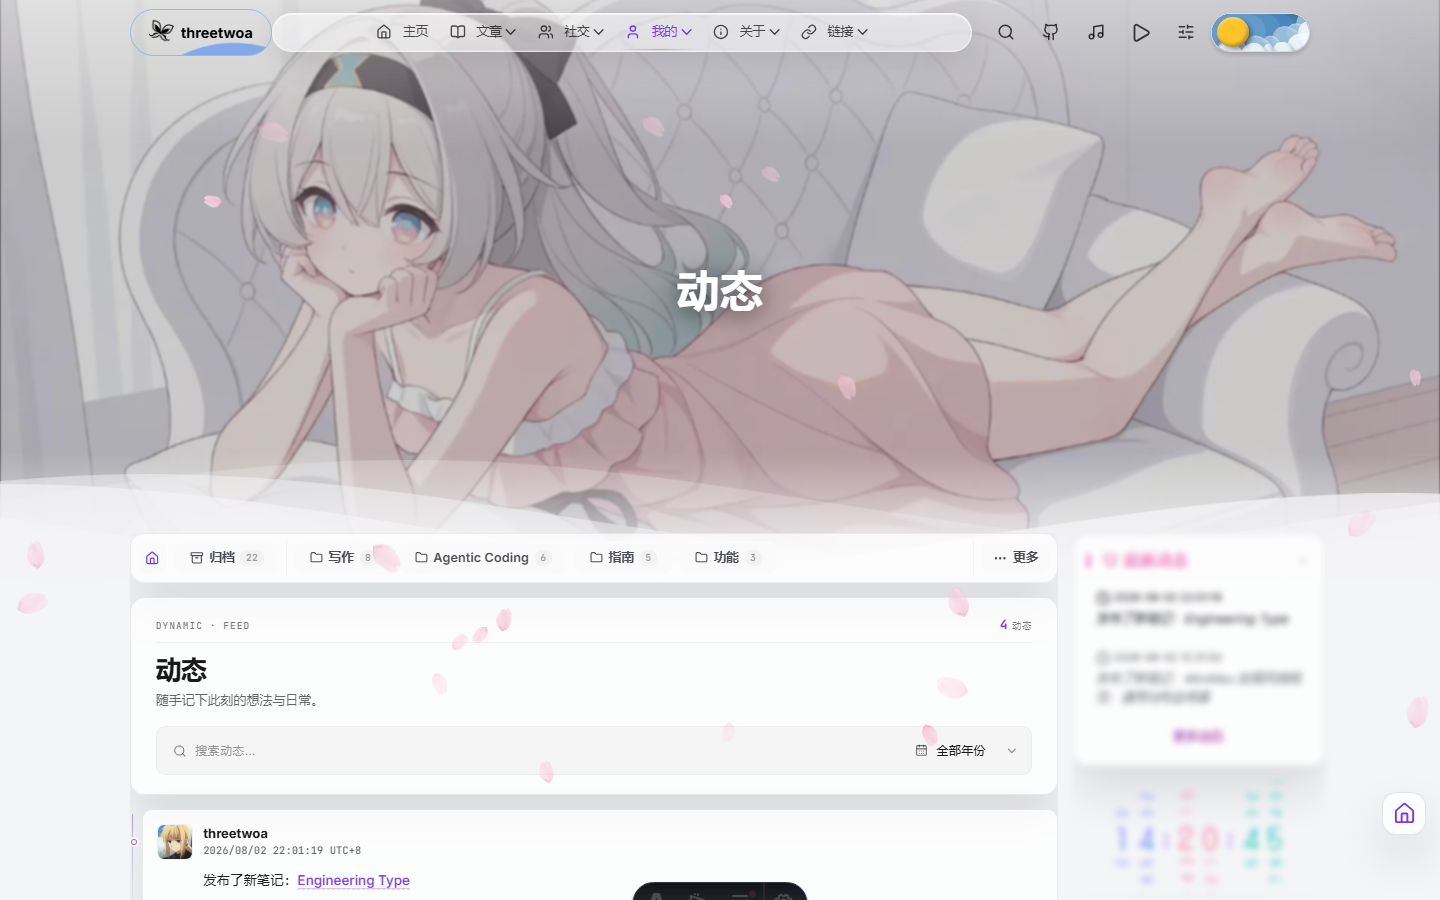
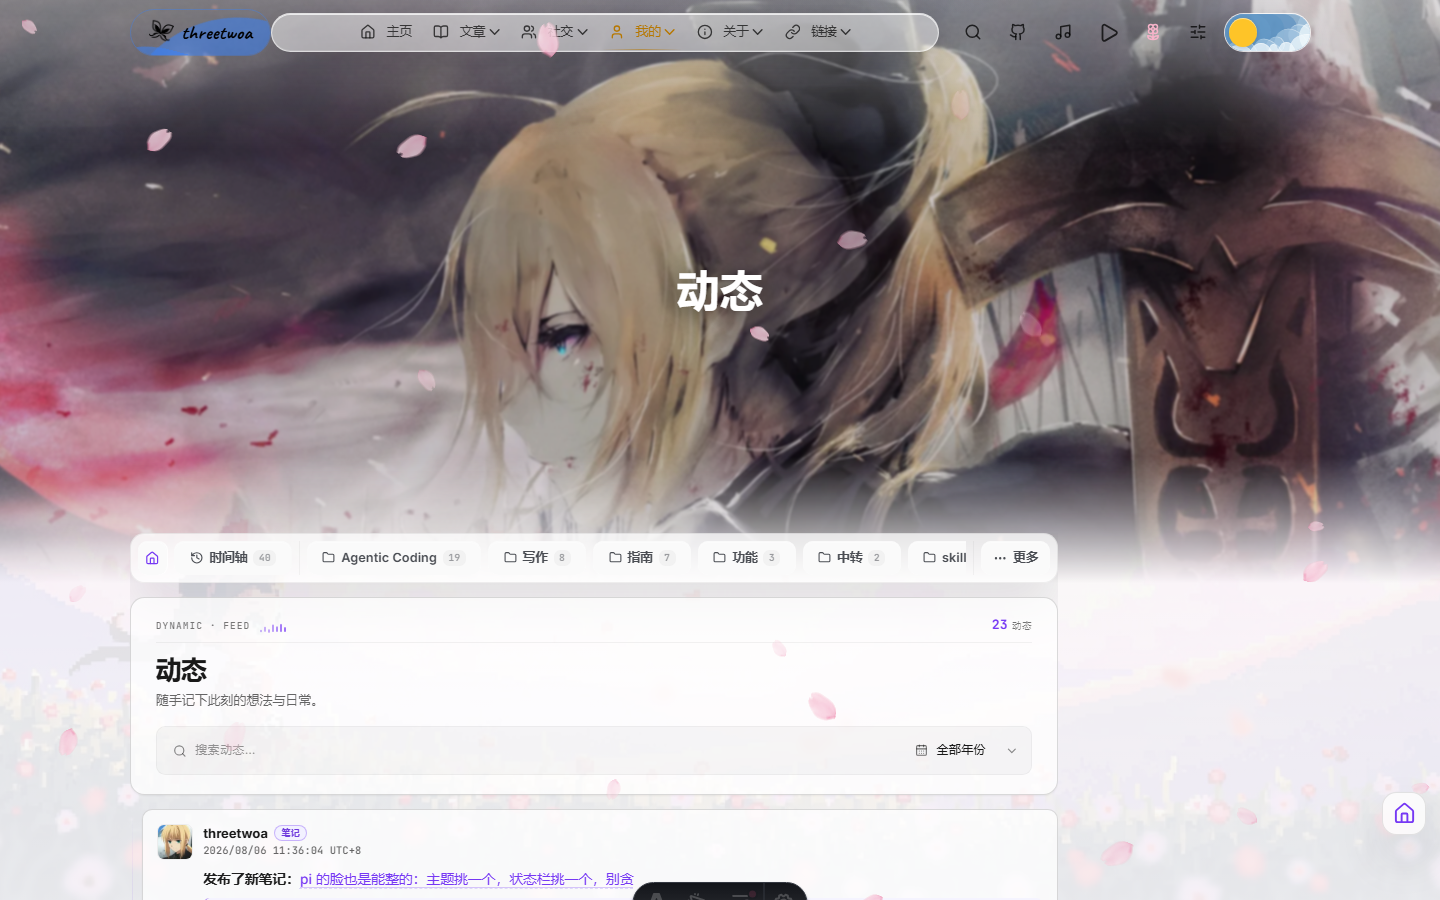
docs(readme): Showcase 重截并对齐 timeline 路由
Playwright 清旧图重截；archive 改为 timeline 资产与文案；截图脚本改绑 127.0.0.1。

diff --git a/scripts/capture-readme-showcase.py b/scripts/capture-readme-showcase.py
@@ -1,6 +1,6 @@
-"""Capture showcase screenshots from local Firefly blog (Playwright).
+r"""Capture showcase screenshots from local Firefly blog (Playwright).
 
-前置：`pnpm dev` 已在 http://localhost:4321 跑着（本机多为 [::1]）。
+前置：`pnpm dev` 已在 http://127.0.0.1:4321 跑着。
 用法：完整路径调用 python，例如：
 `& "$env:LOCALAPPDATA\Programs\Python\Python313\python.exe" scripts\capture-readme-showcase.py`
 """
@@ -10,8 +10,8 @@ from pathlib import Path
 
 from playwright.sync_api import sync_playwright
 
-# Astro 在本机常只监听 [::1]；127.0.0.1 会连不上
-BASE = "http://localhost:4321"
+# 优先 127.0.0.1（pnpm dev --host 127.0.0.1）；本机偶发只绑 [::1] 时再改 BASE
+BASE = "http://127.0.0.1:4321"
 OUT = Path(__file__).resolve().parent.parent / "assets" / "images" / "readme"
 OUT.mkdir(parents=True, exist_ok=True)
 
@@ -26,7 +26,7 @@ SHOTS: list[tuple[str, str, dict[str, str] | None, str | None]] = [
         "#post-container",
     ),
     ("showcase-dynamic.png", "/dynamic/", None, None),
-    ("showcase-archive.png", "/archive/", None, None),
+    ("showcase-timeline.png", "/timeline/", None, None),
     ("showcase-about.png", "/about/", None, "main, #post-container, .custom-md"),
     ("showcase-gallery.png", "/gallery/", None, None),
 ]
@@ -34,7 +34,9 @@ SHOTS: list[tuple[str, str, dict[str, str] | None, str | None]] = [
 HIDE_CSS = """
 .sprite-pet-root,
 #pio-container,
-.pio-container {
+.pio-container,
+#gift-surprise-toast,
+.gift-surprise-toast {
   display: none !important;
   visibility: hidden !important;
 }

diff --git a/README.md b/README.md
@@ -1,18 +1,18 @@
 <h1 align="center">threetwoa's blog</h1>
 
 <p align="center">
-  <strong><em>an Astro blog with a system behind it</em></strong> 🚀
+  <strong><em>an Astro blog with a system behind it</em></strong>
 </p>
 
 <p align="center">
-  <img src="https://img.shields.io/badge/Node.js-%3E%3D22-339933?style=flat-square&logo=node.js&logoColor=white" alt="Node.js">
-  <img src="https://img.shields.io/badge/pnpm-%3E%3D9-F69220?style=flat-square&logo=pnpm&logoColor=white" alt="pnpm">
-  <img src="https://img.shields.io/badge/Astro-7-FF5D01?style=flat-square&logo=astro&logoColor=white" alt="Astro">
-  <img src="https://img.shields.io/badge/Svelte-5-FF3E00?style=flat-square&logo=svelte&logoColor=white" alt="Svelte"><br>
-  <img src="https://img.shields.io/badge/TypeScript-6-3178C6?style=flat-square&logo=typescript&logoColor=white" alt="TypeScript">
-  <img src="https://img.shields.io/badge/Tailwind-4-06B6D4?style=flat-square&logo=tailwindcss&logoColor=white" alt="Tailwind CSS">
-  <img src="https://img.shields.io/badge/Deploy-Vercel-000000?style=flat-square&logo=vercel&logoColor=white" alt="Vercel">
-  <img src="https://img.shields.io/github/license/Aafff623/fork-Firefly?style=flat-square" alt="License">
+  <img src="https://img.shields.io/badge/Node.js-%3E%3D22-339933?style=for-the-badge&logo=node.js&logoColor=white" alt="Node.js">
+  <img src="https://img.shields.io/badge/pnpm-%3E%3D9-F69220?style=for-the-badge&logo=pnpm&logoColor=white" alt="pnpm">
+  <img src="https://img.shields.io/badge/Astro-7-FF5D01?style=for-the-badge&logo=astro&logoColor=white" alt="Astro">
+  <img src="https://img.shields.io/badge/Svelte-5-FF3E00?style=for-the-badge&logo=svelte&logoColor=white" alt="Svelte"><br>
+  <img src="https://img.shields.io/badge/TypeScript-6-3178C6?style=for-the-badge&logo=typescript&logoColor=white" alt="TypeScript">
+  <img src="https://img.shields.io/badge/Tailwind-4-06B6D4?style=for-the-badge&logo=tailwindcss&logoColor=white" alt="Tailwind CSS">
+  <img src="https://img.shields.io/badge/Deploy-Vercel-000000?style=for-the-badge&logo=vercel&logoColor=white" alt="Vercel">
+  <img src="https://img.shields.io/github/license/Aafff623/fork-Firefly?style=for-the-badge" alt="License">
 </p>
 
 <p align="center">
@@ -26,9 +26,12 @@
 
 <p align="center">
   <a href="#project">Project</a>
+  · <a href="#features">Features</a>
+  · <a href="#integrations">Integrations</a>
   · <a href="#showcase">Showcase</a>
   · <a href="#quick-start">Quick start</a>
   · <a href="#architecture">Architecture</a>
+  · <a href="#tech-stack">Tech stack</a>
 </p>
 
 <p align="center">
@@ -44,11 +47,9 @@
 
 ## Project
 
-An Astro blog built around content, configuration, and visual iteration.
+配置驱动的 Astro 个人博客：内容写在 Markdown / MDX，站点行为落在 `src/config`，页面由 Astro + Svelte islands + 少量客户端脚本组成。
 
-这是一个基于 Firefly 二次开发的 Astro 个人博客：内容写在 Markdown / MDX，站点行为由 `src/config` 控制，页面与交互由 Astro、Svelte islands 和少量客户端脚本共同完成。
-
-项目关注的不只是主题展示，也包括内容发布、页面组合、搜索、评论和部署之间的清晰边界。当前工作重点是继续收敛信息架构、页面节奏和视觉一致性。
+边界很清楚——**静态优先**、**配置优先于改布局内核**、发文走双路径（Obsidian vault → `ob2blog`，或 Knowledge → `knowledge-output`），收尾都接 `site-cascade`。本仓**没有**独立 Preview 壳；产品面用下方 [Showcase](#showcase) 真机截图。
 
 当前站点：<https://fork-firefly.vercel.app>
 
@@ -58,34 +59,34 @@ An Astro blog built around content, configuration, and visual iteration.
 | Rendering model | Static-first · SSG · CDN-friendly |
 | Content model | Markdown / MDX · Content Collections |
 | Interaction model | Svelte islands · Swup · progressive enhancement |
-| Visual phase | 页面信息架构与视觉一致性持续收敛 |
+| Integrations | Waline · Iconify · SpritePet · local music（见下） |
 | Deployment | Vercel 默认 · Cloudflare adapter 可选 |
 
-<details id="key-docs-and-assets">
-<summary>Key docs and assets</summary>
+### Key docs and assets
+
+<a id="key-docs-and-assets"></a>
 
 | 入口 | 用途 |
 | --- | --- |
 | [CONTEXT.md](CONTEXT.md) | 产品定位、技术事实、术语和仓库边界 |
 | [AGENTS.md](AGENTS.md) | 任务流、修改边界、验证与交付规则 |
-| [docs/adr/](docs/adr/) | 需要长期保留的架构决策 |
+| [docs/adr/](docs/adr/) | 需要长期保留的架构决策（含 Waline / 本地音乐） |
 | [docs/outputs/commit-history/](docs/outputs/commit-history/) | 历史改动、视觉演进和工作摘要 |
 | [assets/images/readme/](assets/images/readme/) | Banner、架构图、技术栈图与 Showcase 资产 |
-| [capture-readme-showcase.py](scripts/capture-readme-showcase.py) | 使用真实页面重新生成 README Showcase |
+| [capture-readme-showcase.py](scripts/capture-readme-showcase.py) | 本地 Playwright 重截 README Showcase |
 
 推荐阅读顺序：`README.md` → `CONTEXT.md` → `AGENTS.md` → `docs/adr/` → `src/config/` / `src/content/`。
-</details>
 
 ## Features
 
-核心能力按“内容 → 阅读 → 个性化 → 集成”组织；每一行同时给出能力范围和主要代码入口。
+核心能力按「内容 → 阅读 → 个性化 → 集成」组织；每一行同时给出能力范围和主要代码入口。
 
 | Area | Capability | Included | Main entry |
 | --- | --- | --- | --- |
 | Publishing | Content model | `posts`、`dynamic`、`spec` 三类 Content Collections | `src/content/` · `src/content.config.ts` |
 | Publishing | Authoring | Markdown / MDX、frontmatter、草稿、置顶、密码文章、文章关联 | `src/content/` · `src/plugins/` |
 | Publishing | Build output | RSS、Sitemap、OpenGraph、阅读时间、字数、Pagefind 索引 | `astro.config.mjs` · `scripts/` |
-| Publishing | Rich content | KaTeX、Mermaid、PlantUML、Wiki Link、代码组、自定义 directive | `src/plugins/` |
+| Publishing | Rich content | KaTeX、Mermaid（merman 静态 SVG）、PlantUML、Wiki Link、代码组、directive | `src/plugins/` |
 | Reading | List system | list、grid、waterfall；Featured、标签和分类入口 | `src/components/layout/` |
 | Reading | Article navigation | Index-First TOC、相关文章、文章导航、标签聚焦 | `src/components/layout/PostPage.astro` |
 | Reading | Display controls | 亮暗色、系统主题、色相、壁纸模式、卡片表现 | `src/config/displaySettingsConfig.ts` |
@@ -93,56 +94,85 @@ An Astro blog built around content, configuration, and visual iteration.
 | Personal surfaces | Dynamic | 碎碎念时间线，可接本地内容或 Memos | `src/pages/dynamic/index.astro` |
 | Personal surfaces | Gallery | 作品集手风琴与 Three.js 无限画布双模式 | `src/pages/gallery/` |
 | Personal surfaces | Extended pages | About、Friends、Guestbook、Anime 等独立页面 | `src/pages/` · `src/content/spec/` |
-| Personal surfaces | Widgets | 热力图、日历、贪吃蛇、热笺、标签墙、统计、桌宠 | `src/components/widget/` |
-| Integration | Comments | Waline、表情、Giphy、访客统计 | `src/config/commentConfig.ts` |
-| Integration | Media services | 评论图片通过服务端代理上传腾讯云 COS | `.env.example` · `src/pages/api/` |
+| Personal surfaces | Widgets | 热力图、日历、公告礼盒、园径便签、标签墙、统计、桌宠 | `src/components/widget/` |
+| Integration | Comments | Waline（ADR-0001）：表情预设、Giphy、访客统计；`stickerSuggest` 已集成默认关 | `src/config/commentConfig.ts` |
+| Integration | Icons | `astro-icon` + Iconify（lucide 主，兼 fa7 / simple-icons / mdi / mingcute / material-symbols） | `astro.config.mjs` |
+| Integration | Pets & music | SpritePet 默认开；Live2D / Spine 备选互斥；音乐默认 local（ADR-0002） | `petConfig.ts` · `musicConfig.ts` · `pioConfig.ts` |
+| Integration | Media services | 评论大图 COS 代理上传；Fancybox 灯箱 | `.env.example` · `src/pages/api/` |
 | Integration | Delivery | Vercel 默认部署，Cloudflare adapter 可选 | `vercel.json` · `wrangler.jsonc` |
 | Integration | Localization | `zh_CN`、`zh_TW`、`en`、`ja`、`ru`、`ko` | `src/config/siteConfig.ts` |
 
+## Integrations
+
+把「装进站点、但容易被 README 漏掉」的集成单独摊开。现行 vs 备选以配置为准，不硬编码进布局。
+
+| 域 | 现行（默认） | 备选 / 旁路 | 配置入口 |
+| --- | --- | --- | --- |
+| 评论 | **Waline**（自建 `serverURL` + Neon） | Twikoo / Giscus / Artalk / Disqus 槽位保留 | [`commentConfig.ts`](src/config/commentConfig.ts) · [ADR-0001](docs/adr/0001-waline-over-giscus.md) |
+| 表情包 | `@waline/emojis@1.4.0`：qq / weibo / bilibili / bmoji | CDN 可换包 | `commentConfig.waline.emoji` |
+| GIF | Waline 客户端默认 **Giphy** search | 高流量时可换自有 API Key | `Waline.astro` |
+| 梗图建议 | `stickerSuggest` **已接线、默认 `enabled: false`** | 可开词表；可选 DeepSeek agent | `/api/comment-sticker-suggest` |
+| 评论大图 | 腾讯云 **COS** 服务端代理（绕过 128KB Base64） | 未配密钥则大图不可用 | `/api/comment-image` · `.env.example` |
+| 图标 | **Iconify** via `astro-icon`；UI 以 **Lucide** 为主 | fa7 / simple-icons / mdi / mingcute / material-symbols | `astro.config.mjs` → `icon({ include })` |
+| 桌宠 | **SpritePet** 默认开（双 DeepSeek 皮） | Live2D / Spine；三者互斥 | [`petConfig.ts`](src/config/petConfig.ts) · `pioConfig.ts` |
+| 音乐 | **local** 自托管曲库 | Meting API 备源 | [`musicConfig.ts`](src/config/musicConfig.ts) · [ADR-0002](docs/adr/0002-local-music-default.md) |
+| 灯箱 / 图示 | Fancybox；Mermaid 经 **merman** 构建期出 SVG | PlantUML · panzoom | `@fancyapps/ui` · `@mermanjs/web` |
+| 动态源 | 本地 `content/dynamic` | 可选 Memos API | `dynamicConfig` · `DynamicSidebar` |
+| 分析 | 槽位就绪（GA / Clarity / Umami / 51la） | ID 多为空，按需填 | `analyticsConfig.ts` |
+
+决策记录：评论走 Waline 而不是 Giscus，是为了表情选项卡与 GIF 插入闭环（见 ADR-0001）。音乐默认 local，是为了不依赖公共 Meting 可用性（见 ADR-0002）。
+
 ## Showcase
 
-推荐浏览路径：首页 → 文章 → Dynamic → Archive / About / Gallery。
+推荐浏览路径：首页 → 文章 → Dynamic → Timeline / About / Gallery。
 
-UI 大改后可以使用 `scripts/capture-readme-showcase.py` 重新截取展示图。脚本需要先启动本地开发服务器。
+截图来自本地 `pnpm dev`（`http://127.0.0.1:4321`），由 Playwright 脚本重截；样式迭代后请再跑一遍覆盖旧图。脚本会隐藏桌宠与礼盒 toast，避免挡画面。
+
+```bash
+# 先 pnpm dev，再：
+python scripts/capture-readme-showcase.py
+```
+
+本仓无独立 Preview 站；下表即产品主链路真机面。
 
 <table>
   <tr>
     <td width="33%" valign="top" align="center">
       <a href="assets/images/readme/showcase-home.png"><img alt="Home" src="assets/images/readme/showcase-home.png" width="100%"></a>
       <br><strong>Home</strong><br>
-      <sub>文章卡片 · 双侧栏 · 壁纸横幅 · 分类入口</sub><br>
+      <sub>文章卡片 · 双侧栏 · 壁纸横幅 · 分类条</sub><br>
       <a href="https://fork-firefly.vercel.app/">Open</a>
     </td>
     <td width="33%" valign="top" align="center">
       <a href="assets/images/readme/showcase-post.png"><img alt="Post" src="assets/images/readme/showcase-post.png" width="100%"></a>
       <br><strong>Post</strong><br>
-      <sub>Index-First TOC · 封面 · Markdown 扩展</sub><br>
+      <sub>Index-First TOC · 封面 · Markdown 扩展 · 公告礼盒</sub><br>
       <a href="https://fork-firefly.vercel.app/posts/claude-code-windows-beautify/">Open</a>
     </td>
     <td width="33%" valign="top" align="center">
       <a href="assets/images/readme/showcase-dynamic.png"><img alt="Dynamic" src="assets/images/readme/showcase-dynamic.png" width="100%"></a>
       <br><strong>Dynamic</strong><br>
-      <sub>碎碎念时间线 · Memos 适配 · 幕布聚焦</sub><br>
+      <sub>碎碎念时间线 · 搜索筛选 · Memos 可接</sub><br>
       <a href="https://fork-firefly.vercel.app/dynamic/">Open</a>
     </td>
   </tr>
   <tr>
     <td width="33%" valign="top" align="center">
-      <a href="assets/images/readme/showcase-archive.png"><img alt="Archive" src="assets/images/readme/showcase-archive.png" width="100%"></a>
-      <br><strong>Archive</strong><br>
-      <sub>按年折叠 · 克制行列表 · 内容索引</sub><br>
-      <a href="https://fork-firefly.vercel.app/archive/">Open</a>
+      <a href="assets/images/readme/showcase-timeline.png"><img alt="Timeline" src="assets/images/readme/showcase-timeline.png" width="100%"></a>
+      <br><strong>Timeline</strong><br>
+      <sub>按年折叠 · 行列表 · 内容索引</sub><br>
+      <a href="https://fork-firefly.vercel.app/timeline/">Open</a>
     </td>
     <td width="33%" valign="top" align="center">
       <a href="assets/images/readme/showcase-about.png"><img alt="About" src="assets/images/readme/showcase-about.png" width="100%"></a>
       <br><strong>About</strong><br>
-      <sub>Quote-Led · Now / Practice / Reach · 视觉组件</sub><br>
+      <sub>Quote-Led · Now / 统计 / 日历侧栏</sub><br>
       <a href="https://fork-firefly.vercel.app/about/">Open</a>
     </td>
     <td width="33%" valign="top" align="center">
       <a href="assets/images/readme/showcase-gallery.png"><img alt="Gallery" src="assets/images/readme/showcase-gallery.png" width="100%"></a>
       <br><strong>Gallery</strong><br>
-      <sub>作品集手风琴 · 无限画布 · 视觉内容</sub><br>
+      <sub>作品集手风琴 · 无限画布双模式</sub><br>
       <a href="https://fork-firefly.vercel.app/gallery/">Open</a>
     </td>
   </tr>
@@ -169,7 +199,7 @@ pnpm dev
 
 打开 <http://localhost:4321> 查看站点。
 
-首次配置请阅读 [Configuration](#configuration)，先完成站点身份和内容设置，再开启评论、Memos 或 COS 等可选服务。
+首次配置请阅读 [Configuration](#configuration)：先完成站点身份和内容，再开评论、COS、Memos 等可选服务。
 </details>
 
 <details>
@@ -207,6 +237,13 @@ src/content/
 ```
 
 文章 frontmatter 会经过 [src/content.config.ts](src/content.config.ts) 校验。生产构建默认隐藏 `draft: true` 的文章，本地开发可以继续预览草稿。
+
+发文双路径（细则见 `AGENTS.md` / `docs/agents/workflow.md`）：
+
+| 路径 | 源 | 技能链 |
+| --- | --- | --- |
+| 甲 | Obsidian vault | `ob2blog` → `site-cascade` |
+| 乙 | 会话 / Knowledge 素材 | `knowledge-extract` → `knowledge-output` → `site-cascade` |
 
 日常写作走内容文件，日常换皮走 `src/config`。不要为了改站点名称、侧栏顺序或壁纸参数去修改布局内核。
 
@@ -266,13 +303,12 @@ src/content/
 
    文章 frontmatter 会由 [src/content.config.ts](src/content.config.ts) 校验。生产构建默认隐藏 `draft: true` 的文章。
 
-6. **启用可选服务**
+6. **启用 / 核对集成服务**
 
-   只有需要评论图片上传或外部数据源时才配置环境变量：
-
-   - 复制 [.env.example](.env.example) 为 `.env`
-   - 在 `src/config/commentConfig.ts` 中配置 Waline
-   - 在对应配置中开启 Memos、COS、音乐、Live2D 或 Spine
+   - 复制 [.env.example](.env.example) 为 `.env`（仅在需要 COS 等密钥时）
+   - 评论：`commentConfig.ts` 现行 Waline；表情与 Giphy 已接
+   - 桌宠：`petConfig.ts` 默认开；与 Live2D / Spine 互斥
+   - 音乐：`musicConfig.ts` 默认 `local`
    - 不要提交 `.env`、API key 或评论服务 token
 
 7. **本地验证**
@@ -325,7 +361,7 @@ src/content/
 
 ## Architecture
 
-项目把“经常修改的内容”与“尽量稳定的内核”分开：运营走配置和 Markdown，构建链路负责增强，浏览器只接收必要的交互。
+项目把「经常修改的内容」与「尽量稳定的内核」分开：运营走配置和 Markdown，构建链路负责增强，浏览器只接收必要的交互。
 
 <p align="center">
   <img src="assets/images/readme/architecture.svg" alt="threetwoa's blog architecture diagram" width="100%">
@@ -335,8 +371,8 @@ src/content/
 | --- | --- | --- |
 | Authoring | 配置、文案、Markdown / MDX | `src/config` · `src/content` |
 | Composition | 页面、布局、组件和 Markdown plugins | `src/pages` · `src/layouts` · `src/components` · `src/plugins` |
-| Build | 静态生成、图片占位、字体和搜索索引 | Astro SSG · LQIP · font subset · Pagefind |
-| Runtime | CDN 交付和轻量交互 | `dist` · Vercel · Swup · Svelte islands |
+| Build | 静态生成、图片占位、字体、Mermaid SVG、搜索索引 | Astro SSG · LQIP · font subset · merman · Pagefind |
+| Runtime | CDN 交付与轻量交互 | `dist` · Vercel · Swup · Svelte islands · Waline · SpritePet · Iconify |
 
 ### Design principles
 
@@ -349,11 +385,21 @@ src/content/
 
 ## Tech stack
 
-技术栈按“页面框架、内容处理、构建增强、交付环境”分组，方便定位依赖和评估改动影响。
+技术栈按「页面框架、内容处理、构建增强、交付环境、站点集成」分组。图负责气质；下表负责事实。
 
 <p align="center">
   <img src="assets/images/readme/tech-stack.svg" alt="threetwoa's blog technology stack" width="100%">
 </p>
+
+| Lane | Stack | Role |
+| --- | --- | --- |
+| Runtime core | Astro 7.1 · Svelte 5 · TypeScript 6 · Tailwind CSS 4 | 页面、岛屿、类型与样式 |
+| Publishing | MD / MDX · Content Collections · remark / rehype · Expressive Code | 写作契约与正文增强 |
+| Interaction | Swup · Iconify (`astro-icon`) · Fancybox · Three.js（Gallery） | 过渡、图标、灯箱、画廊 |
+| Build enrichment | Sharp · LQIP · font subset · **merman** · Pagefind · Satori（OG） | 构建期把贵活做完 |
+| Delivery | `dist/` · Vercel · Cloudflare adapter（可选） | 静态出站 |
+| Site integrations | Waline + emoji/Giphy · SpritePet · local music · COS · Memos（可选） | 配置门控；前几项现行默认开 |
+| Quality | Biome · `astro check` · tsc · pnpm only-allow | 格式、类型与包管理纪律 |
 
 ## Deploy
 

diff --git a/docs/outputs/prd/readme-diagrams/readme-diagram-brief.md b/docs/outputs/prd/readme-diagrams/readme-diagram-brief.md
@@ -1,11 +1,12 @@
 # README 配图 Brief（契约层）
 
 > **契约已落地归档（2026-08-04）**：下列文件名与状态已与 `assets/images/readme/` 实盘对齐。勿再按旧名 `banner.png` / `architecture.png` 找图。  
-> 现行色锚见 `CONTEXT.md`（Kraken 主紫 hue 290）；下文青绿表仅保留作 Phase B 生图史档。
+> 现行色锚见 `CONTEXT.md`（Kraken 主紫 hue 290）；下文青绿表仅保留作 Phase B 生图史档。  
+> **状态刷新：2026-08-05** — README Polish 迭代：Integrations 小节落地；`tech-stack.svg` 节点对齐现行；Showcase 六张自 `localhost:4321` 重截。
 
 - 项目：threetwoa's blog / fork-Firefly（standalone；仓名带 `fork-` 历史前缀）
-- 日期：2026-07-30（契约起草）· 状态刷新：2026-08-04
-- Phase：B · README Polish — **主资产已挂 README**
+- 日期：2026-07-30（契约起草）· 状态刷新：2026-08-05
+- Phase：B · README Polish — **主资产已挂 README**；本轮为集成盘点 + 行文 + 重截
 - 范文偏向：产品演示向 + standalone 声明 + 边界/徽章密度
 
 ## 风格参照（必读）
@@ -27,14 +28,26 @@
 
 | 章节 | 实盘文件 | 状态 |
 |---|---|---|
-| Header | `banner-pixel-garden.png` | 已挂 README |
-| 为什么 | — | 边界表已写 |
-| Showcase | `showcase-{home,post,dynamic,archive,about,gallery}.png` | 已截；可用 `scripts/capture-readme-showcase.py` 重截 |
-| 架构 | `architecture.svg` | 已挂 |
-| 技术栈 | `tech-stack.svg` | 已挂 |
+| Header | `banner-pixel-garden.png` | 已挂 README；徽章 `for-the-badge` |
+| Project / Key docs | — | Key docs **展开**（无 `<details>`）；声明无 Preview 壳 |
+| Features | — | Integration 行加厚（Waline / Iconify / SpritePet / music / COS） |
+| Integrations | — | **2026-08-05 新增**：现行 vs 备选表 |
+| Showcase | `showcase-{home,post,dynamic,archive,about,gallery}.png` | **2026-08-05 重截**（源 `localhost:4321`；脚本隐藏桌宠与 `#gift-surprise-toast`） |
+| 架构 | `architecture.svg` | 已挂；Runtime 表文字对齐 Waline / SpritePet / Iconify |
+| 技术栈 | `tech-stack.svg` | **2026-08-05**：INTERACTION 加 Iconify；OPTIONAL → SITE INTEGRATIONS（Waline+GIF / SpritePet / Local music / COS）；正文补分层表 |
 | 功能 / 主链路说明图 | （未出 `features.png` / `workflow.png`） | 可选；非阻塞 |
 
 落盘目录：`assets/images/readme/`。生图史档 Prompt 见 [`readme-image-prompts.md`](./readme-image-prompts.md)（文件名可能仍写旧 `banner.png`，以本表实盘名为准）。
+
+## Showcase 重截记录
+
+| 项 | 值 |
+|---|---|
+| 日期 | 2026-08-05 |
+| 源 | `http://localhost:4321`（`pnpm dev`） |
+| 脚本 | `scripts/capture-readme-showcase.py` |
+| 视口 | 1440×900 · light · DSF 1 |
+| HIDE_CSS | `.sprite-pet-root` · `#pio-container` · `#gift-surprise-toast` / `.gift-surprise-toast` |
 
 ## 色板（Phase B 生图史档 · 4–6 色）
 
@@ -49,15 +62,17 @@
 
 ## Agent 边界
 
-- README Polish **只改**：`README.md` · `docs/outputs/prd/readme-diagrams/**` · `assets/images/readme/**`
+- README Polish **只改**：`README.md` · `docs/outputs/prd/readme-diagrams/**` · `assets/images/readme/**` · 必要时 `scripts/capture-readme-showcase.py`（HIDE_CSS）
 - 本仓**未提供**根目录 `preview-readme.html`（见 `CLAUDE.md`）
 - **不改** `src/config` / layouts / 其他 plan 正在动的模块
 
 ## 验收
 
 - [x] README 居中 Header + standalone/来源说明 + Showcase 三列表
-- [x] Showcase 截图落盘并写入 README
+- [x] Showcase 截图落盘并写入 README（2026-08-05 重截）
 - [x] `banner-pixel-garden.png` 已挂 README Header
-- [x] `architecture.svg` / `tech-stack.svg` 已挂
+- [x] `architecture.svg` / `tech-stack.svg` 已挂；tech-stack 节点已对齐现行
+- [x] Integrations 小节落地；Key docs 无折叠
+- [x] 徽章 `for-the-badge`；声明无 Preview
 - [ ] （可选）features / workflow 说明图
-- [x] push 后核 GitHub README 渲染
+- [ ] push 后核 GitHub README 渲染（待用户指令）
